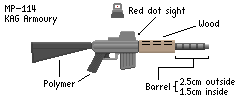
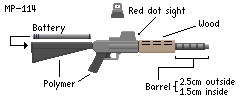
e

diff --git a/Technology/PlasmaticWeaponry.md b/Technology/PlasmaticWeaponry.md
@@ -46,7 +46,7 @@ It is a law in many nations that unsupervised weapons production is a severe cri
 
 The MP-114 is a plasmatic rifle manufactured by KAG Armoury and the current service rifle of the Kagalarian army. It is valued for its effectiveness, reliability, and high quality-to-cost ratio.
 
-A standard MP-114 is 90 centimetres long, including a 30-centimetre polymer buttstock, a polymer grip angled at 20 degrees, a red dot sight, and a bright wooden handguard with air vents. It has five heat sinks placed around the barrel. Its barrel is 2.5 centimetres thick and 1.5 centimetres hollow. Military variants have a sling connected from the end of the stock to the end of the wooden handguard.
+A standard MP-114 is 90 centimetres long, including a 30-centimetre polymer buttstock with a thin metal core, a polymer grip angled at 20 degrees, a red dot sight, and a bright wooden handguard with air vents. It has five heat sinks placed around the barrel. Its barrel is 2.5 centimetres thick and 1.5 centimetres hollow. Military variants have a sling connected from the end of the stock to the end of the wooden handguard.
 
 MP-114 batteries are shorter and wider than the grip, and can last around 50 shots before completely running out of power.
 </details>
